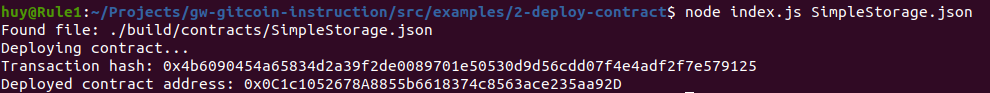
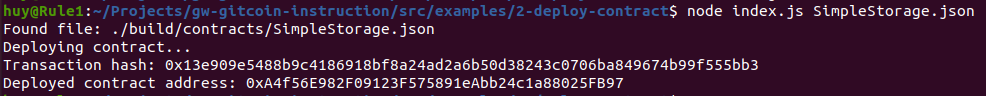
Deploy a Simple Ethereum Smart Contract on Polyjuice - wrong private key format

diff --git a/2/README.md b/2/README.md
@@ -4,11 +4,11 @@
 
 ## The transaction hash from the contract deployment
 ```
[2 lines of base64/hex data omitted]
 ```
 
 ## The deployed contract address from the contract deployment
 ```
-0x0C1c1052678A8855b6618374c8563ace235aa92D
+0xA4f56E982F09123F575891eAbb24c1a88025FB97
 ```
 
